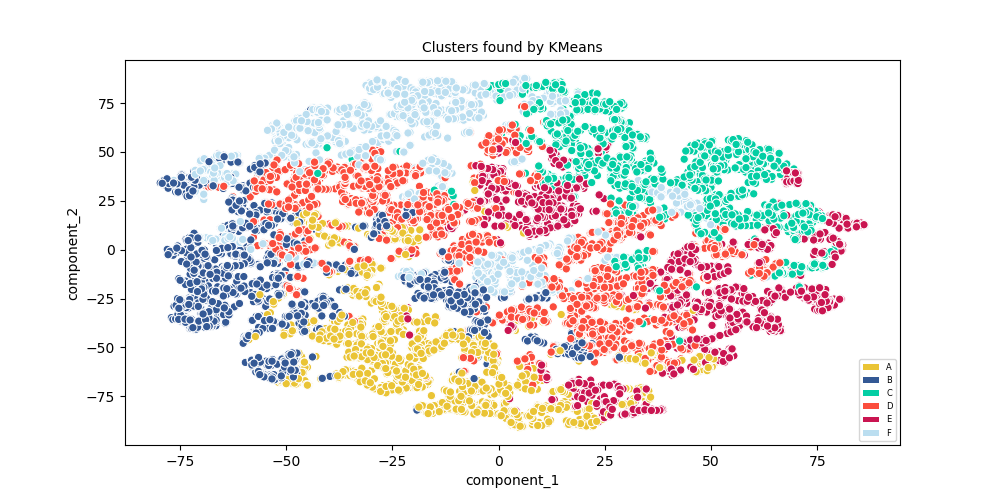
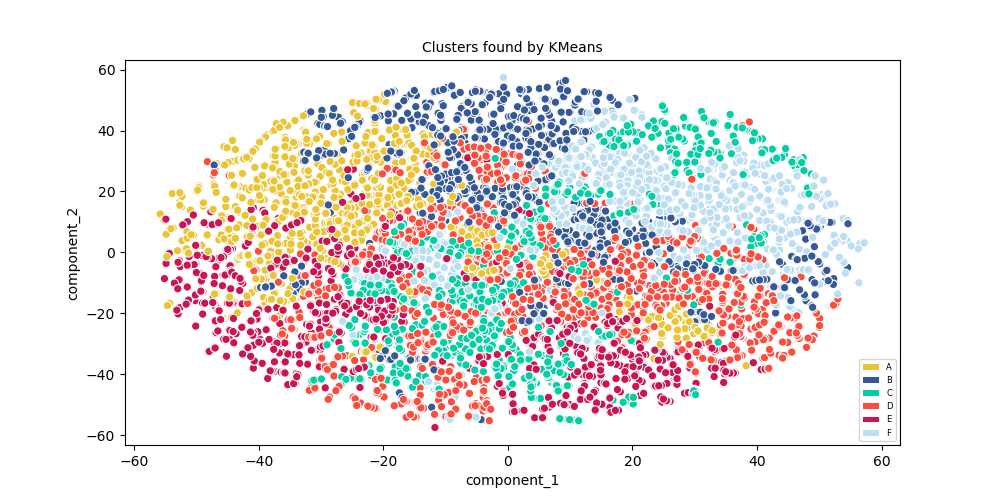
scaled data in constructor for pca, tsne and clustering
run KMeans on different configuration for raw data, also changed some tsne configs arguments

diff --git a/core/position_clustering/_kmeans.py b/core/position_clustering/_kmeans.py
@@ -59,7 +59,7 @@ class kmeans():
 		'''		
 
 		self.__data_type = data_type
-		self.__raw_data_for_tsne = deepcopy(data)
+		self.__standard_scaled_data = StandardScaler().fit_transform(data) # scale data before clustering
 
 		if self.__data_type == 'latent': # no need to reduce dim or scale data for clustering
 			self.__data = data
@@ -67,8 +67,7 @@ class kmeans():
 		
 		elif self.__data_type == 'raw': # we have to reduce dim and scale data for clustering
 			pca_pc_bn = PCA(n_components=2) # generally K-means works best for 2 dimensional numerical data, reduce from 4 features to 2.
-			scaler = StandardScaler() # scale data before clustering
-			self.__data = pca_pc_bn.fit_transform(scaler.fit_transform(data))
+			self.__data = pca_pc_bn.fit_transform(self.__standard_scaled_data)
 			self.__ds_info = f'\tmean : {np.mean(self.__data)}\n\tstd : {np.std(self.__data)}\n\tStandard : scaler\n\tPDF : standard normal\n\tDRA : PCA'
 		
 		else:
@@ -121,8 +120,8 @@ class kmeans():
 				reductioned_data = self.__data
 
 			elif method == 'tsne':
-				tsne_data = TSNE(n_components=2)
-				reductioned_data = tsne_data.fit_transform(self.__raw_data_for_tsne)
+				tsne_data = TSNE(n_components=2, verbose=1, perplexity=3, n_iter=1000, learning_rate=20)
+				reductioned_data = tsne_data.fit_transform(self.__standard_scaled_data)
 
 			else:
 				print("[?] please specify a correct plotting method.")
